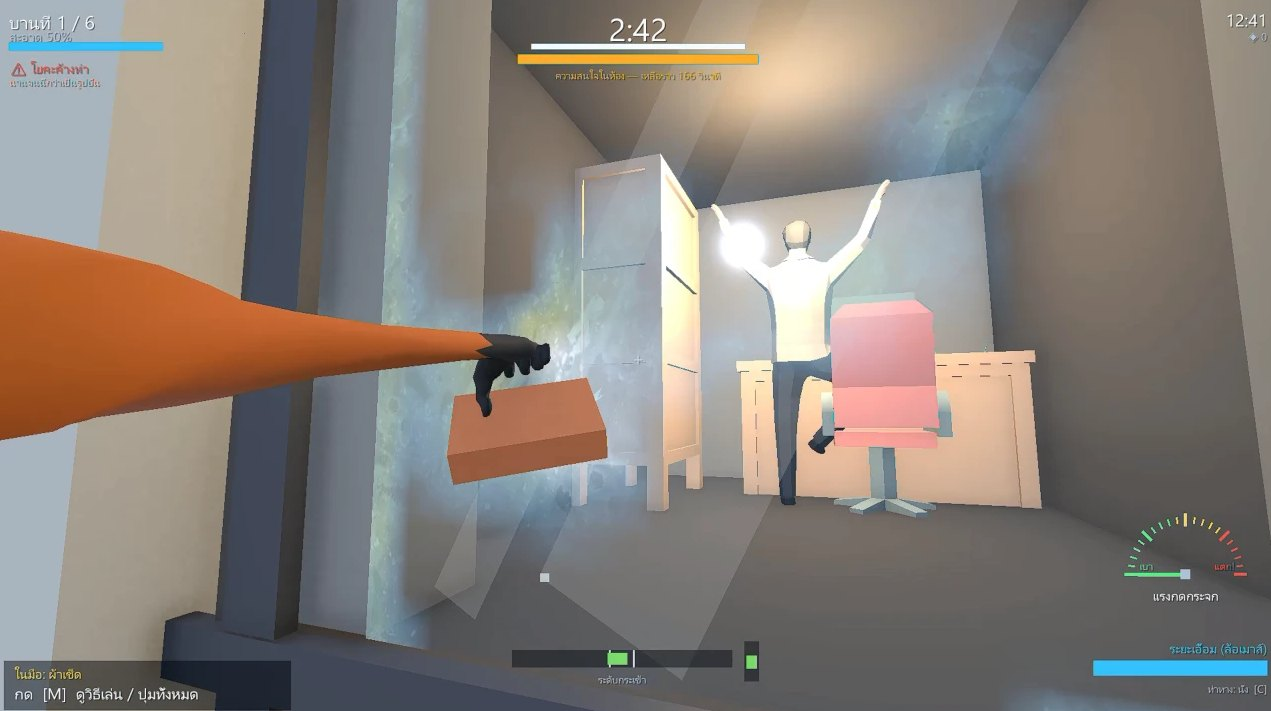
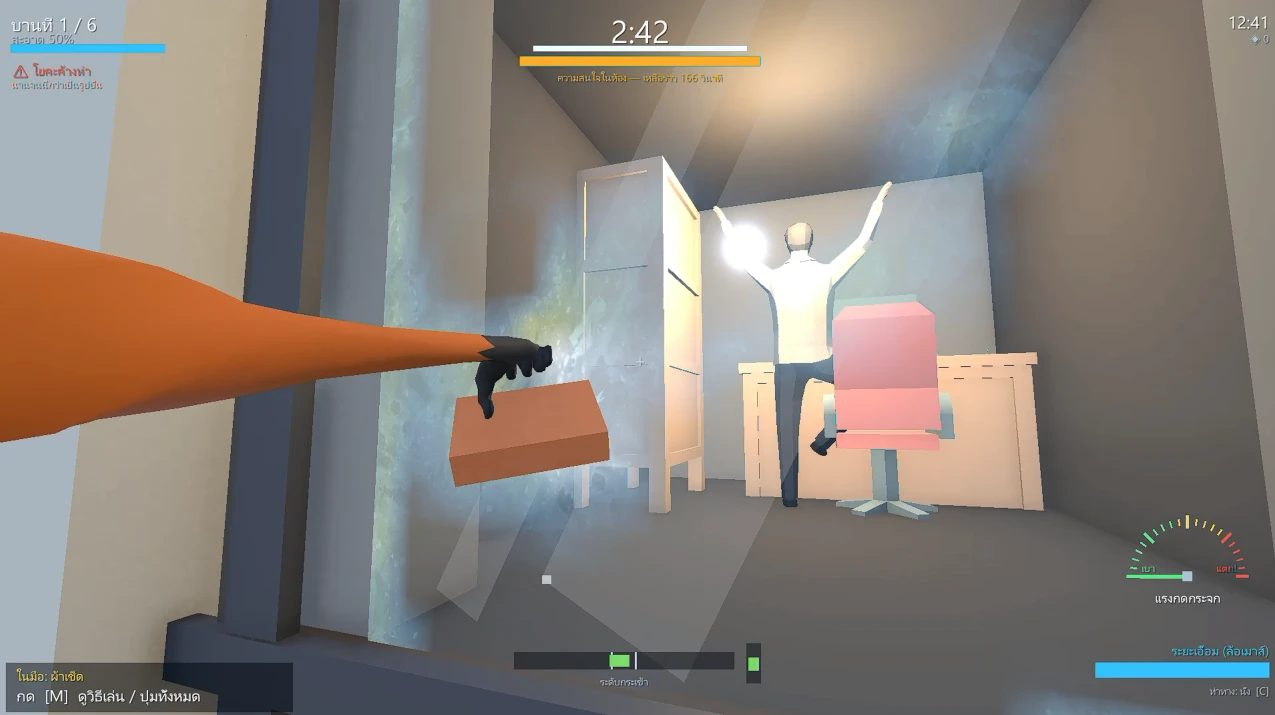
Update Too Ka Jok with new screenshots and copy

diff --git a/js/content.js b/js/content.js
@@ -95,31 +95,33 @@ window.CONTENT = {
     },
     {
       id: 'tookajok',
-      title: 'Too Ka Jok (ห้ามพวน)',
+      title: 'Too Ka Jok (ห้ามผวน)',
       short: 'Too Ka Jok',          // ชื่อสั้นบน Nav Bar
       news: {
         tag: 'เกมเดี่ยว',
-        headline: 'ห้อยตัวกลางฟ้า เช็ดกระจกตึกสูง: เด็ก ม.ปลายปั้นเกมจำลองอาชีพคนเดียวใน 7 วัน',
-        deck: 'Too Ka Jok (ห้ามพวน) ทำเองทุกส่วน เพราะอยากให้คนรู้จักอาชีพที่ต้องทำงานอยู่ข้างตึกสูงหลายสิบชั้น'
+        headline: 'ห้อยตัวกลางฟ้า มือก็ไม่ค่อยจะเชื่อฟัง: Too Ka Jok เกมจำลองคนเช็ดกระจกตึกสูงที่ปั้นคนเดียวใน 7 วัน',
+        deck: 'ปั้นโมเดล สร้างแมพ วางระบบ ทำเองทุกอย่าง — เพื่อให้ทุกคนได้ลองสัมผัสงานที่ต้องแลกกับความเสี่ยงกลางอากาศ'
       },
-      date: '6–13 ส.ค. 2569',
+      date: '',                     // เจ้าของจำวันที่ไม่ได้ (ว่าง = ไม่แสดง)
       duration: '1 สัปดาห์',
-      about: 'เกม<em>จำลองอาชีพคนเช็ดกระจกตึกสูง</em> อาชีพที่เราเห็นห้อยอยู่ข้างตึกบ่อยๆ แต่แทบไม่เคยลองนึกว่าเขาทำงานกันยังไง',
-      why: 'ทำเพื่อฝึกฝีมือ และอยากให้คนรู้จักอาชีพที่ต้องทำงานอยู่กลางฟ้ามากขึ้น',
-      goal: 'ทำเพราะอยากทำล้วนๆ — เกมที่สนองนีดตัวเองเต็มที่',
-      team: 'Nok Make Game',
+      about: 'เกม<em>จำลองอาชีพคนเช็ดกระจกตึกสูง</em> ห้อยตัวอยู่ข้างตึกหลายสิบชั้น เช็ดกระจกให้สะอาดทีละบานก่อนหมดเวลา ระวังลมแรง ระวังกดแรงจนกระจกแตก และถ้าพลาดเมื่อไหร่… ก็เหลือแค่สายเซฟตี้เส้นเดียว',
+      why: 'ไฮไลต์: <em>ฟิสิกส์สุดปั่นป่วน</em> กับ<em>มือสุดอัมพาต</em> ที่ตั้งใจทำให้บังคับยากสุดๆ — ยิ่งเช็ดยาก ยิ่งเข้าใจว่างานนี้ไม่ง่ายเลย',
+      goal: 'อยากให้คนเห็นใจและเข้าใจคนที่ทำงานด้วยความเสี่ยงและความอดทน ในที่ที่ไม่ปลอดภัยเลย',
+      team: 'Nokkawow',
       teamSize: 1,                  // 1 = เกมเดี่ยว
-      role: 'ทำทุกส่วนของเกม',
-      images: [
+      role: 'ทำทุกอย่าง ตั้งแต่ปั้นโมเดล สร้างแมพ จนวางระบบทั้งหมด',
+      images: [                     // รูปแรก = รูปหลัก
         'assets/projects/tookajok/shot1.jpg',
         'assets/projects/tookajok/shot2.jpg',
         'assets/projects/tookajok/shot3.jpg',
-        'assets/projects/tookajok/shot4.jpg'
+        'assets/projects/tookajok/shot4.jpg',
+        'assets/projects/tookajok/shot5.jpg'
       ],
       link: '',                     // ยังไม่ได้อัปโหลด — ใส่ลิงก์ itch.io เมื่อพร้อม
       linkLabel: 'เล่นบน itch.io',
-      uploadedBy: '',               // ถ้าเพื่อน/ทีมเป็นคนอัปโหลด ใส่ชื่อที่นี่
-      award: ''                     // รางวัล (ถ้ามี) — ขึ้นเป็นตราประทับสีม่วง
+      uploadedBy: '',
+      video: '',
+      award: ''
     },
     {
       id: 'lookup',

diff --git a/AGENTS.md b/AGENTS.md
@@ -111,6 +111,7 @@
 
 | วันที่ | ใคร | ทำอะไร |
 |---|---|---|
+| 2026-09-27 | Claude | อัปเดต Too Ka Jok ตามฟอร์มใหม่: รูปใหม่ 5 รูป · ทีม Nokkawow · เอาวันที่ออก (จำไม่ได้) · ชื่อ ห้ามผวน ตามในเกม |
 | 2026-09-27 | Claude | เพิ่มเกม Look Up, Don't let go (ลำดับที่ 4 · อันดับ 3 Game Rainy Jam) + เปลี่ยนชื่อ Humannoid a → Humanoid A |
 | 2026-09-27 | Claude | เพิ่มเกม Humannoid a (ลำดับที่ 2) + เขียนข้อความทุกเกมใหม่ให้อ่านง่าย/สนุกขึ้น · ทีมเพนกวิน 4 คน · วันที่ว่างไม่แสดงในข่าว |
 | 2026-09-27 | Claude | เพิ่มเกม Penguin Five Days (ลำดับแรกของไทม์ไลน์) + teamSize 0 = ไม่แสดงจำนวนคน |
